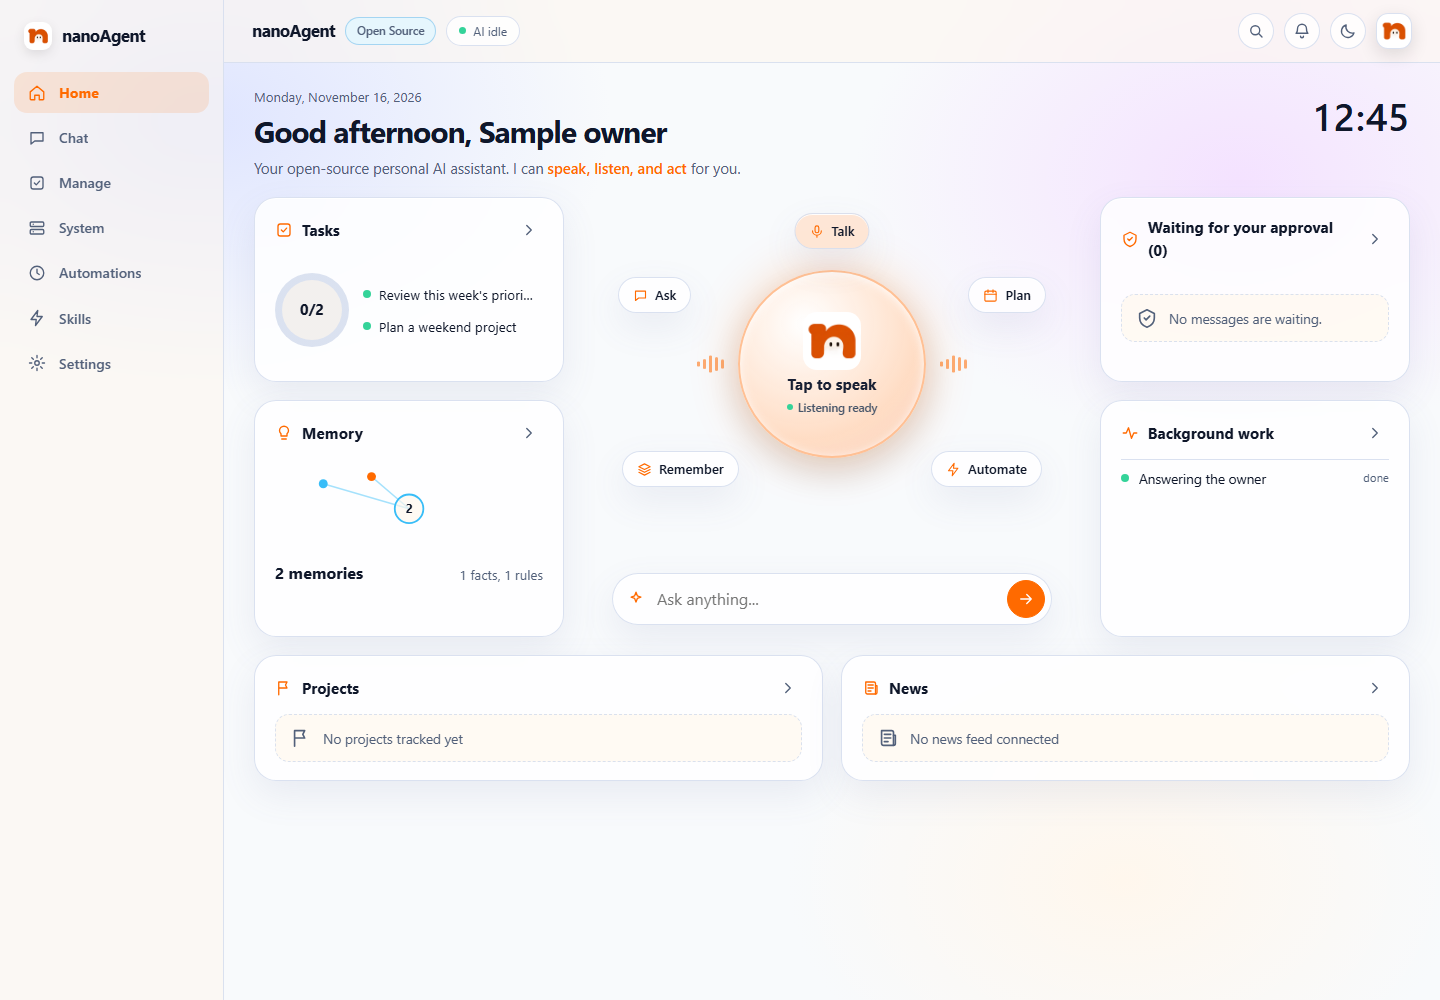
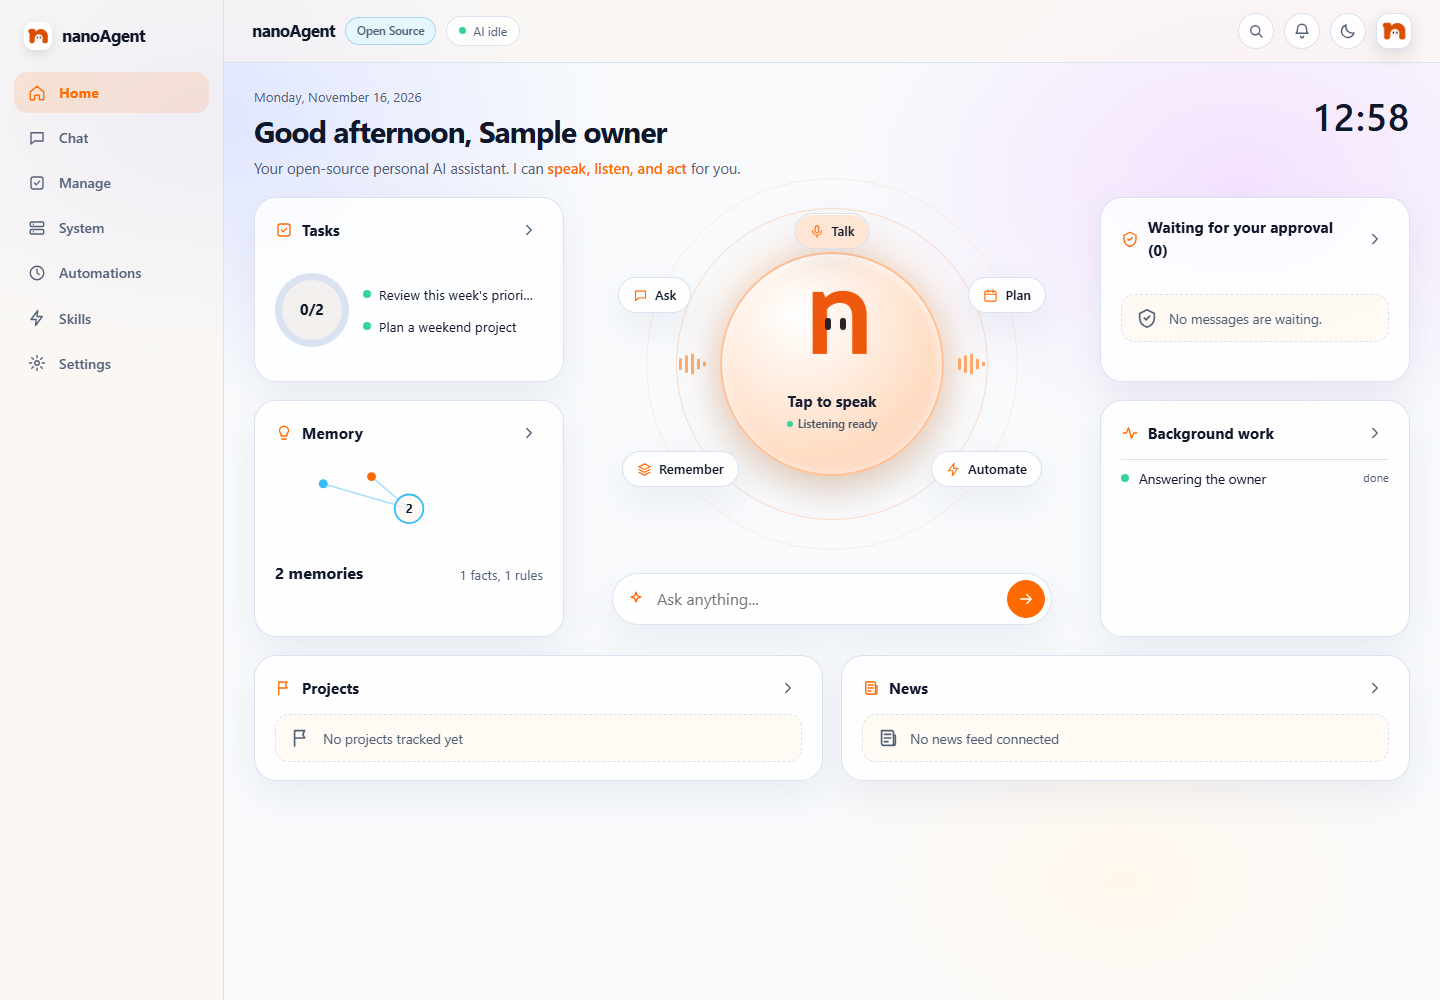
Animate assistant mascot and refine responsive console

Changed region(s): [[0.4688, 0.248, 0.6875, 0.496], [0.9375, 0.093, 0.9688, 0.124]]

diff --git a/src/nanoagent/gateway/static/dashboard.css b/src/nanoagent/gateway/static/dashboard.css
@@ -584,6 +584,8 @@ pre {
   justify-content: center;
   gap: 14px;
 }
+.orb-aura::before, .orb-aura::after { content: ""; position: absolute; z-index: -1; left: 50%; top: 50%; transform: translate(-50%, -50%); width: 310px; height: 310px; border: 1px solid color-mix(in srgb, var(--accent) 22%, transparent); border-radius: 50%; pointer-events: none; }
+.orb-aura::after { width: 370px; height: 370px; border-color: color-mix(in srgb, var(--accent) 11%, transparent); }
 
 .orb-wave {
   display: flex;
@@ -601,9 +603,9 @@ pre {
 
 .jv-orb {
   position: relative;
-  width: 188px;
-  height: 188px;
-  min-height: 188px;
+  width: 224px;
+  height: 224px;
+  min-height: 224px;
   padding: 16px;
   border-radius: 50%;
   border: 2px solid color-mix(in srgb, var(--accent) 42%, #ffffff);
@@ -624,7 +626,24 @@ pre {
 }
 
 .jv-orb:hover { transform: scale(1.025); }
-.jv-orb img { width: 58px; height: 58px; object-fit: contain; border-radius: 14px; }
+.assistant-mascot { position: relative; display: block; width: 104px; height: 91px; flex: none; }
+.assistant-letter { position: absolute; inset: -43px 0 0; color: #ee580d; font: 900 118px/1 "Arial Rounded MT Bold", "Trebuchet MS", system-ui, sans-serif; letter-spacing: -.13em; text-shadow: inset 0 2px #ffb16c, 0 3px 9px #d84c2833; }
+.assistant-eyes { position: absolute; display: flex; gap: 9px; left: 45px; top: 22px; }
+.assistant-eyes i { width: 6px; height: 12px; border-radius: 999px; background: #272124; transform-origin: center; }
+.assistant-working { position: absolute; display: none; gap: 4px; right: -11px; top: 5px; }
+.assistant-working i { width: 5px; height: 5px; border-radius: 50%; background: #f76b25; }
+.jv-orb[data-state=thinking] .assistant-working, .jv-orb[data-working=true] .assistant-working { display: flex; }
+.jv-orb[data-state=listening] .assistant-eyes i { background: #178d71; }
+@media (prefers-reduced-motion: no-preference) {
+  .assistant-mascot { animation: mascot-breathe 3.8s ease-in-out infinite; }
+  .assistant-eyes i { animation: mascot-blink 5.6s infinite; }
+  .jv-orb[data-state=thinking] .assistant-working i, .jv-orb[data-working=true] .assistant-working i { animation: mascot-dot 1s ease-in-out infinite alternate; }
+  .assistant-working i:nth-child(2) { animation-delay: .18s; }
+  .assistant-working i:nth-child(3) { animation-delay: .36s; }
+  @keyframes mascot-breathe { 50% { transform: translateY(-3px) rotate(-1deg); } }
+  @keyframes mascot-blink { 0%, 93%, 97%, 100% { transform: scaleY(1); } 95% { transform: scaleY(.12); } }
+  @keyframes mascot-dot { to { opacity: .25; transform: translateY(-5px); } }
+}
 .jv-orb strong { font-size: 0.94rem; font-weight: 700; line-height: 1.1; }
 .jv-orb small { display: inline-flex; align-items: center; gap: 5px; font-size: 0.72rem; color: #475569; font-weight: 550; }
 .jv-orb small i { width: 6px; height: 6px; border-radius: 50%; background: var(--ok); display: inline-block; }
@@ -665,6 +684,11 @@ pre {
 .orb-chip-rb { bottom: 32px; right: 10px; }
 
 @media (max-width: 520px) {
+  header .open-pill, header .pill { display: none; }
+  header .brand-name { font-size: .92rem; }
+  .orb-aura::before { width: 270px; height: 270px; }
+  .orb-aura::after { width: 310px; height: 310px; }
+  .jv-orb { width: 210px; height: 210px; min-height: 210px; }
   .orb-stage {
     min-height: 0;
     flex-direction: column;

diff --git a/src/nanoagent/gateway/static/console.js b/src/nanoagent/gateway/static/console.js
@@ -172,7 +172,9 @@ function viewHeading(title, detail, number) {
 }
 async function pollPill() {
   try { const r = await api("/activity?count=1"); const n = r.running || 0; const p = $("#pill"); p.classList.toggle("busy", n > 0);
-    $("#pilltxt").textContent = n > 0 ? t("pill_busy", { n }) : t("pill_idle"); } catch (e) { /* login screen */ }
+    $("#pilltxt").textContent = n > 0 ? t("pill_busy", { n }) : t("pill_idle");
+    const orb = $("#orb"); if (orb) orb.dataset.working = n > 0 ? "true" : "false";
+  } catch (e) { /* login screen */ }
 }
 
 // ---------- home ----------
@@ -235,6 +237,12 @@ function waveBars(n = 5) {
   return h("div", { class: "orb-wave", "aria-hidden": "true" },
     ...Array.from({ length: n }, (_, i) => h("i", { style: `--i:${i};--h:${[14, 24, 34, 22, 12][i % 5]}px` })));
 }
+function assistantMascot() {
+  return h("span", { class: "assistant-mascot", "aria-hidden": "true" },
+    h("span", { class: "assistant-letter", text: "n" }),
+    h("span", { class: "assistant-eyes" }, h("i"), h("i")),
+    h("span", { class: "assistant-working" }, h("i"), h("i"), h("i")));
+}
 async function vHome() {
   const v = clear();
   const date = new Date(), hour = date.getHours();
@@ -273,7 +281,7 @@ async function vHome() {
           h("div", { class: "orb-aura" },
             waveBars(5),
             h("button", { id: "orb", class: "jv-orb", "data-state": "idle", onclick: orbTap, "aria-label": t("orb_tap") },
-              h("img", { src: "/static/logo-icon.png", alt: "n" }),
+              assistantMascot(),
               h("strong", { text: lang === "th" ? "แตะเพื่อพูด" : "Tap to speak" }),
               h("small", null, h("i"), h("span", { text: lang === "th" ? "พร้อมรับฟัง" : "Listening ready" }))),
             waveBars(5))),
